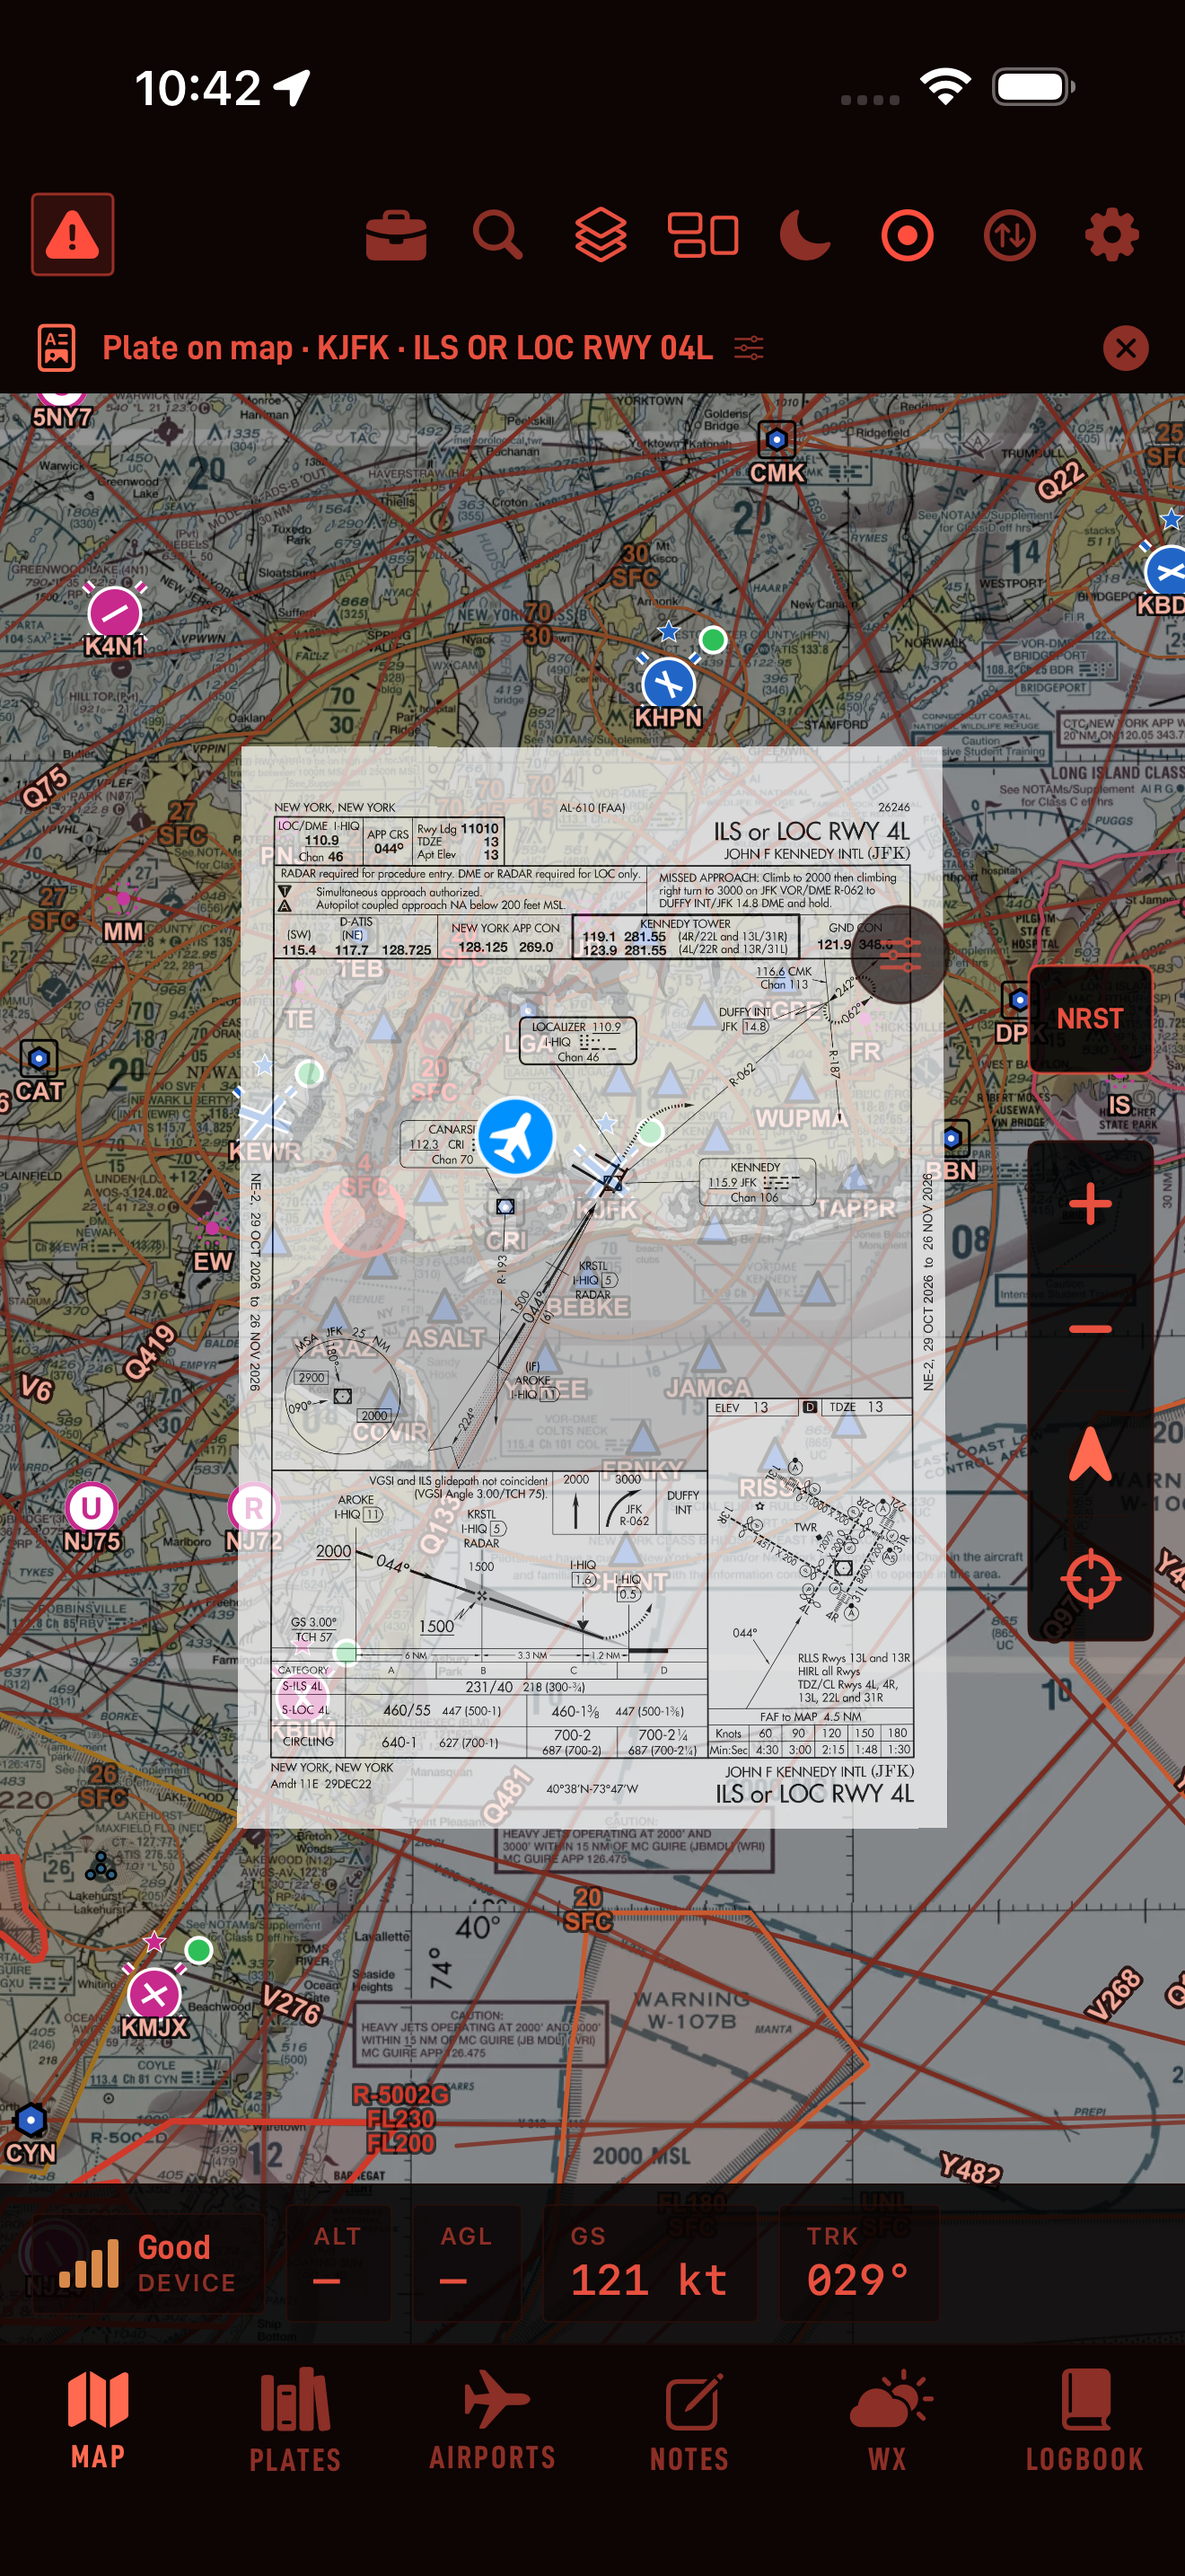
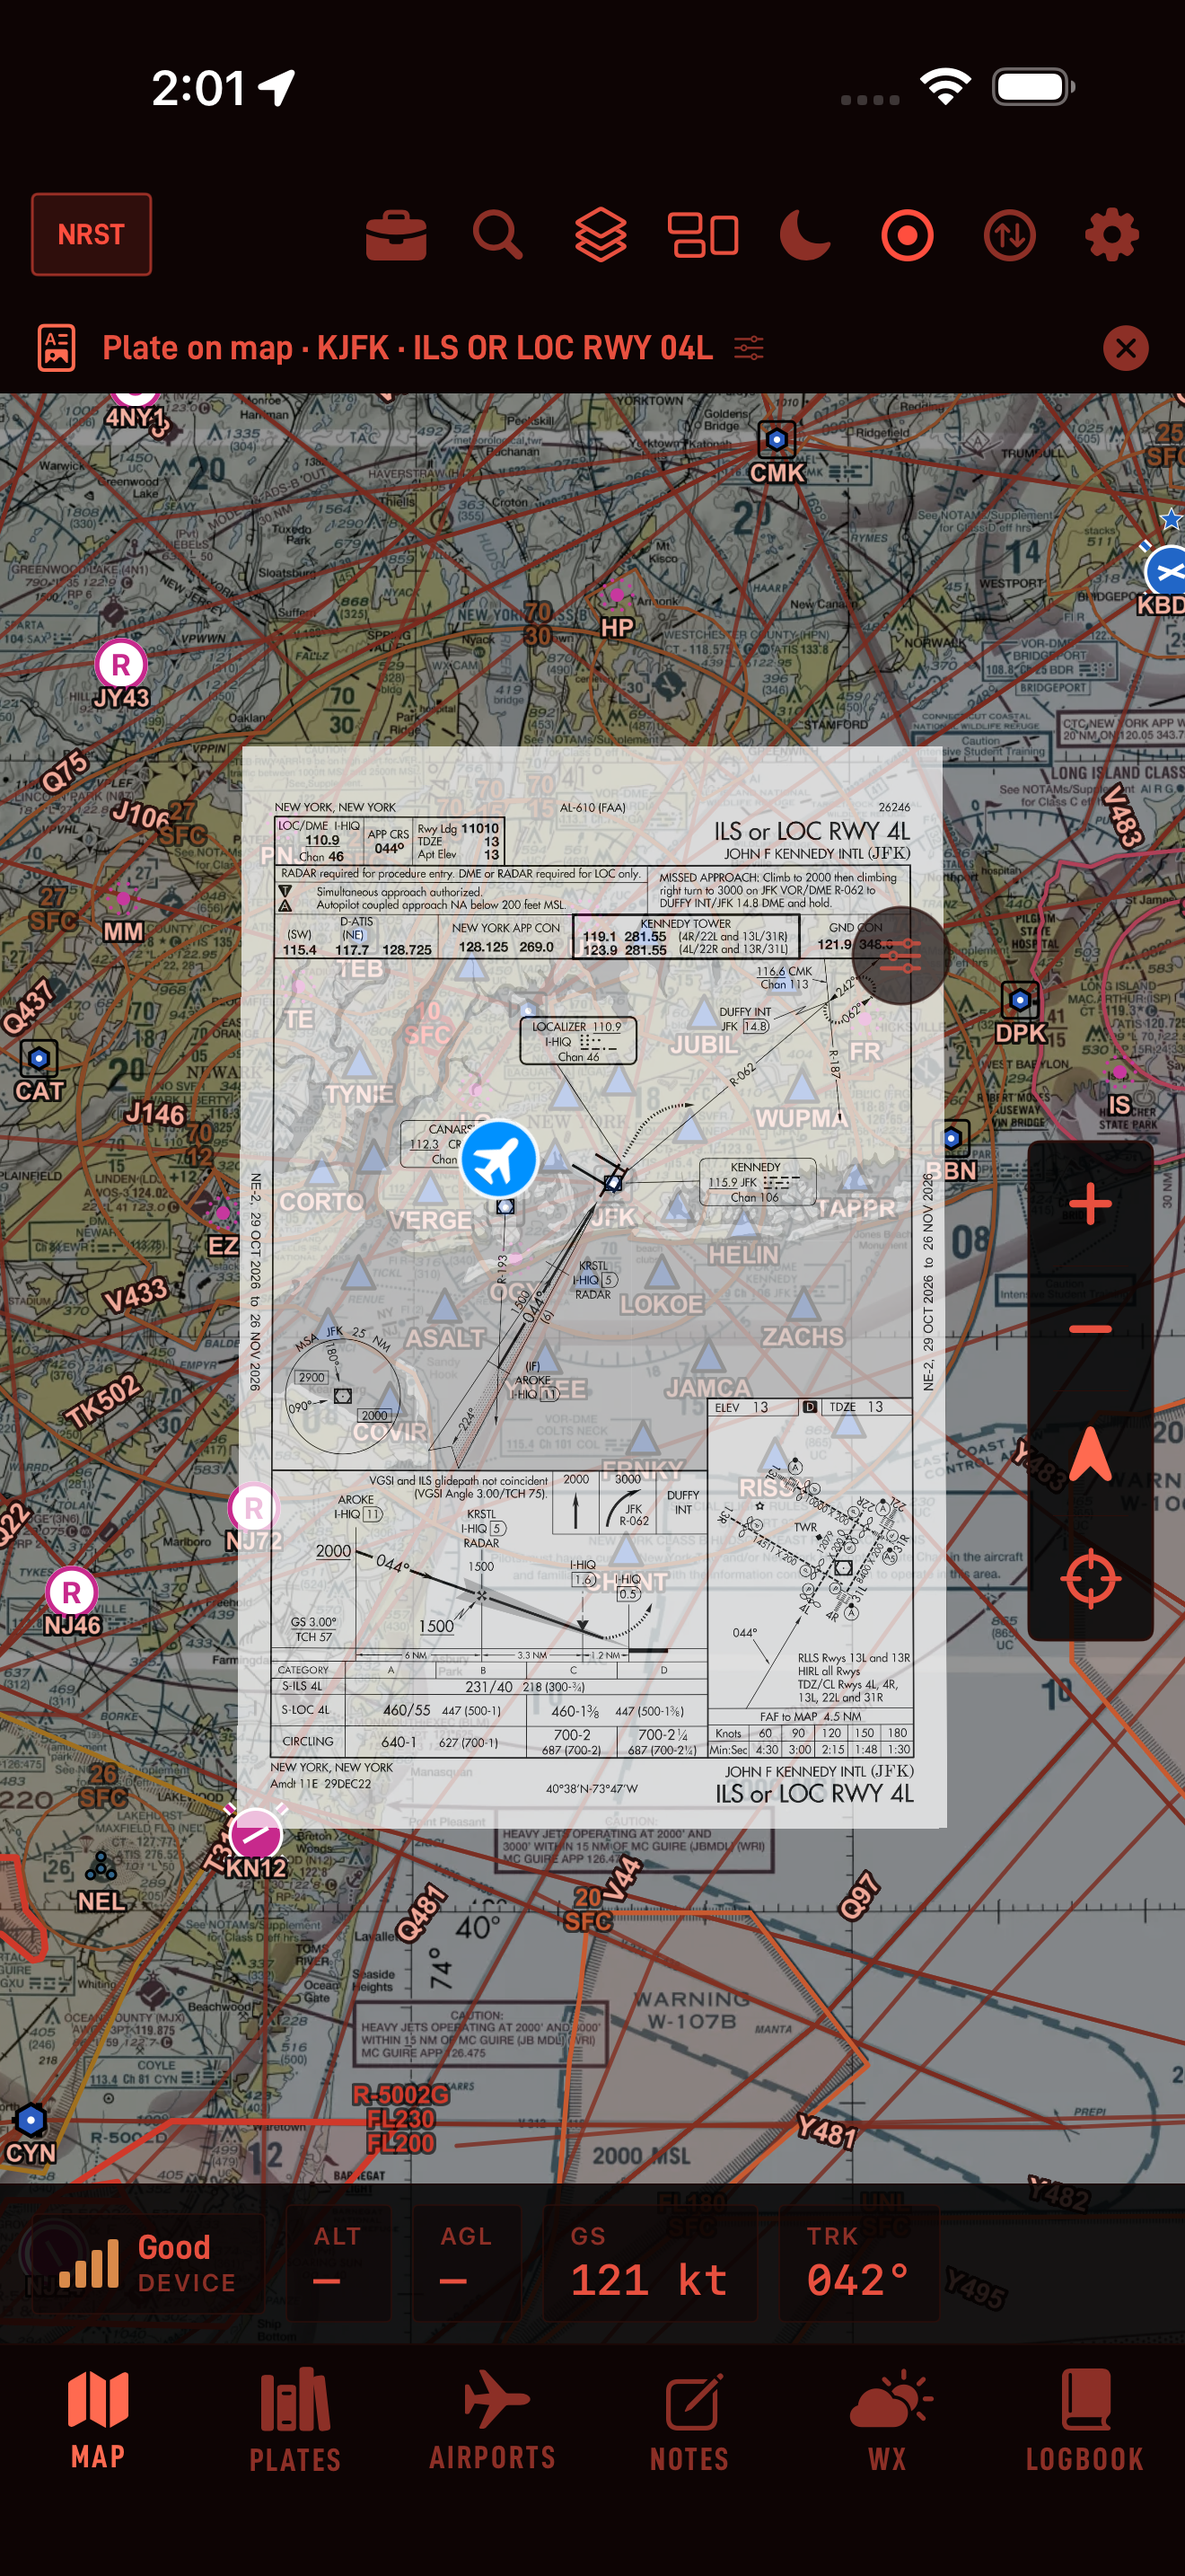
Screenshots that are current, framed and sharp
The committed set was shot on 30 October and predates four visible changes:
NRST moved into the top bar, traffic became chevrons, the aircraft editor
arrived, and the layers panel stopped being 510pt wide on a 402pt phone.
Uploading them would have shown an older app, and the iPhone set would have
shown the clipped panel we fixed.

Two faults in the runner, both of which only appear on a clean device.

It relied on whatever the SHARED simulator had cached, so on a fresh one
every shot fell back to the 9 MB bundled base, which stops at zoom 7. It
installs the New York sectional and the enroute sheets now and refuses to
run without them.

And it assumed the app opens zoomed in. It does not — that was a saved
camera on a simulator driven by hand for weeks. Clean, the app opens at
CONTINENTAL zoom with "Zoom in to load the chart here" across it, and the
first run of this produced five pictures of the United States with a dot on
it. frameOnAircraft now recentres and zooms until the map stops saying it
has no chart, which stops at the right scale instead of a fixed count.

Both sets re-shot from build 116's code: iPad 13in at 2064x2752 and iPhone
6.9in at 1320x2868, five each.

diff --git a/ios/ATCTranscribeUITests/AppStoreScreenshotTests.swift b/ios/ATCTranscribeUITests/AppStoreScreenshotTests.swift
@@ -78,6 +78,34 @@ final class AppStoreScreenshotTests: XCTestCase {
         else if menu.exists { menu.tap() }          // could not find it — close the menu again
     }
 
+    /// Put the camera on the aeroplane, at a scale where the chart actually draws.
+    ///
+    /// ⚠ DO NOT ASSUME THE DEVICE OPENS ZOOMED IN. It does not. The first set of these shots was
+    /// taken on a simulator that had been driven by hand for weeks, so it had a saved camera over
+    /// New York and the map came up framed. On a fresh or erased device the app opens at
+    /// CONTINENTAL zoom with "Zoom in to load the chart here" across it, and the whole set came out
+    /// as a picture of the United States with a dot on it — which is what shipped the first time
+    /// this ran clean.
+    ///
+    /// So recentre explicitly, then zoom in until the map stops saying it has no chart. Bounded,
+    /// and it stops as soon as the chart appears rather than zooming a fixed number of times, which
+    /// would be wrong at a different starting camera.
+    private func frameOnAircraft(_ app: XCUIApplication) {
+        let recenter = app.buttons["map-center-ownship"]
+        if recenter.waitForExistence(timeout: 10), recenter.isHittable { recenter.tap(); settle(2) }
+
+        let noChart = NSPredicate(format: "label BEGINSWITH 'Zoom in to load' OR "
+                                  + "label BEGINSWITH 'Pan and zoom in to load'")
+        let zoomIn = app.buttons["map-zoom-in"]
+        for _ in 0..<9 {                                    // bounded: continental to a usable scale
+            if app.staticTexts.matching(noChart).count == 0 { break }
+            guard zoomIn.exists, zoomIn.isHittable else { break }
+            zoomIn.tap()
+            settle(1.5)
+        }
+        settle(10)                                          // the tiles for THIS frame, over the network
+    }
+
     func testCaptureAppStoreScreenshots() throws {
         try XCTSkipUnless(enabled, "Set APPSTORE_SHOTS=1 to regenerate the App Store screenshots.")
 
@@ -100,6 +128,8 @@ final class AppStoreScreenshotTests: XCTestCase {
         // Leave no panel open from a previous run: NRST persists across launches, and it parks a
         // panel over a third of the screen.
         if app.buttons["nrst-end"].exists { app.buttons["nrst-end"].tap(); settle(1) }
+
+        frameOnAircraft(app)
 
         // 1. The moving map. The one shot most people will ever look at.
         snap(app, "01-map")
